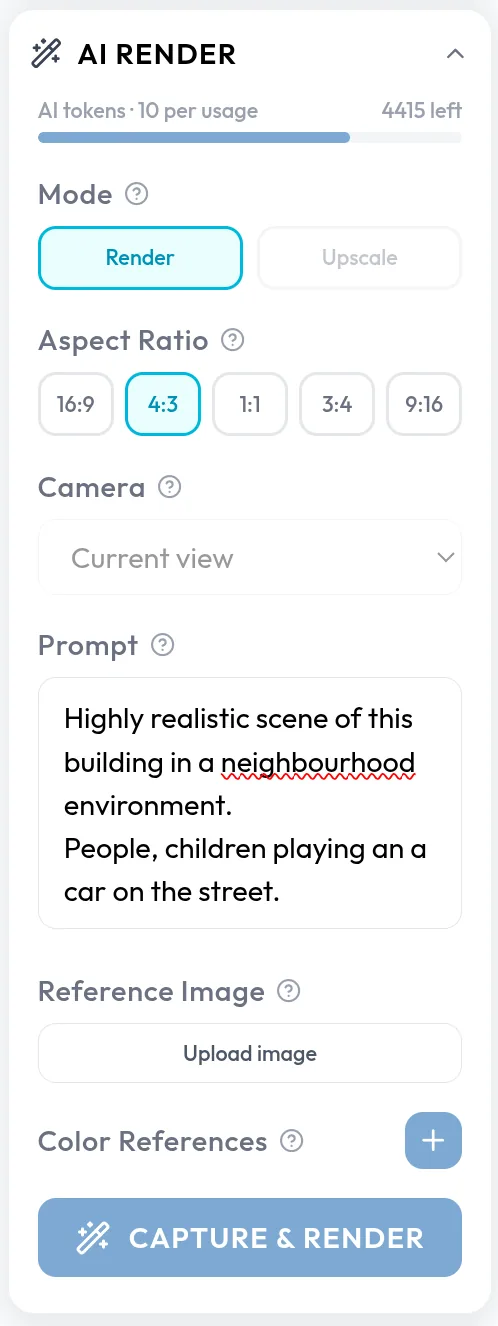
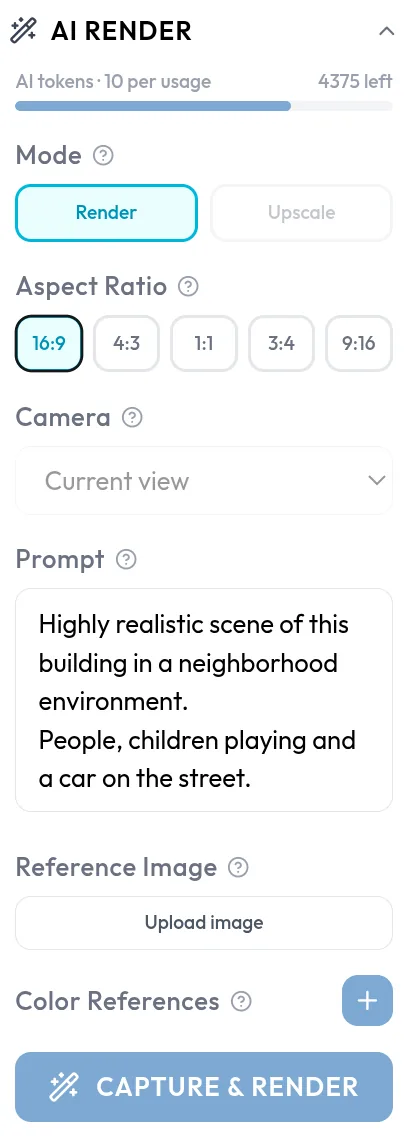
Refine screenshot layout and swap updated images
Hide the placeholders that have no screenshot yet, use the new FBX dialog
and AI Render panel captures, and drop the viewer page image. Tables now
shrink to sit beside floated screenshots, the Advanced and Scenes list
images line up with their headings, and the Review image sits under its
step title.

diff --git a/style.css b/style.css
@@ -9,6 +9,17 @@
   margin-top: 0;
 }
 
+/* Let tables sit beside a floated screenshot instead of dropping below it.
+   Mintlify gives the table wrapper a fixed width, which cannot fit next to a float. */
+.mdx-content:has(.side-image) div:has(> [data-component-part="scroll-area-viewport"]) {
+  --page-padding: 0px;
+  width: auto;
+}
+
+.mdx-content:has(.side-image) td {
+  min-width: 6rem;
+}
+
 .clear-float,
 .mdx-content::after,
 #content::after {

diff --git a/CLAUDE.md b/CLAUDE.md
@@ -40,13 +40,15 @@ changing a page, read its section there and the `Studio/` files it lists. Keep i
 of published `.mdx` files.
 
 Screenshots are WebP files under `images/<section>/`, converted from the PNG sources in
-`images/Screenshots/` (excluded from the build in `.mintignore`). A few are still missing: each
-is a visible `INSERT IMAGE [description]` line followed by a comment holding the finished
-`<Frame><img ... /></Frame>` snippet. `grep -rn "INSERT IMAGE"` lists them.
+`images/Screenshots/` (excluded from the build in `.mintignore`). Shots still to capture are
+hidden `{/* SCREENSHOT NEEDED: ... */}` comments holding the finished `<Frame><img ... /></Frame>`
+snippet. `grep -rn "SCREENSHOT NEEDED"` lists them.
 
-Tall screenshots (panels, phone views) float beside the text: wrap the `<Frame>` in
-`<div className="side-image">` and place it right before the text it illustrates. The class
-lives in `style.css`. Small landscape captures get `style={{ maxWidth: "<half the pixel width>px" }}`
+Tall screenshots (panels, phone views) float to the right: wrap the `<Frame>` in
+`<div className="side-image">`. Place it right before the text it illustrates, or right before a
+heading to line the image up with that heading. Tables beside it shrink to fit (see `style.css`).
+Add `<div className="clear-float" />` before the next heading when the next section should start
+below the image. Small landscape captures get `style={{ maxWidth: "<half the pixel width>px" }}`
 so they display at their natural size.
 
 `docs.json` carries two intentionally empty groups, `Tutorials` and `Blog`, held as placeholders.
